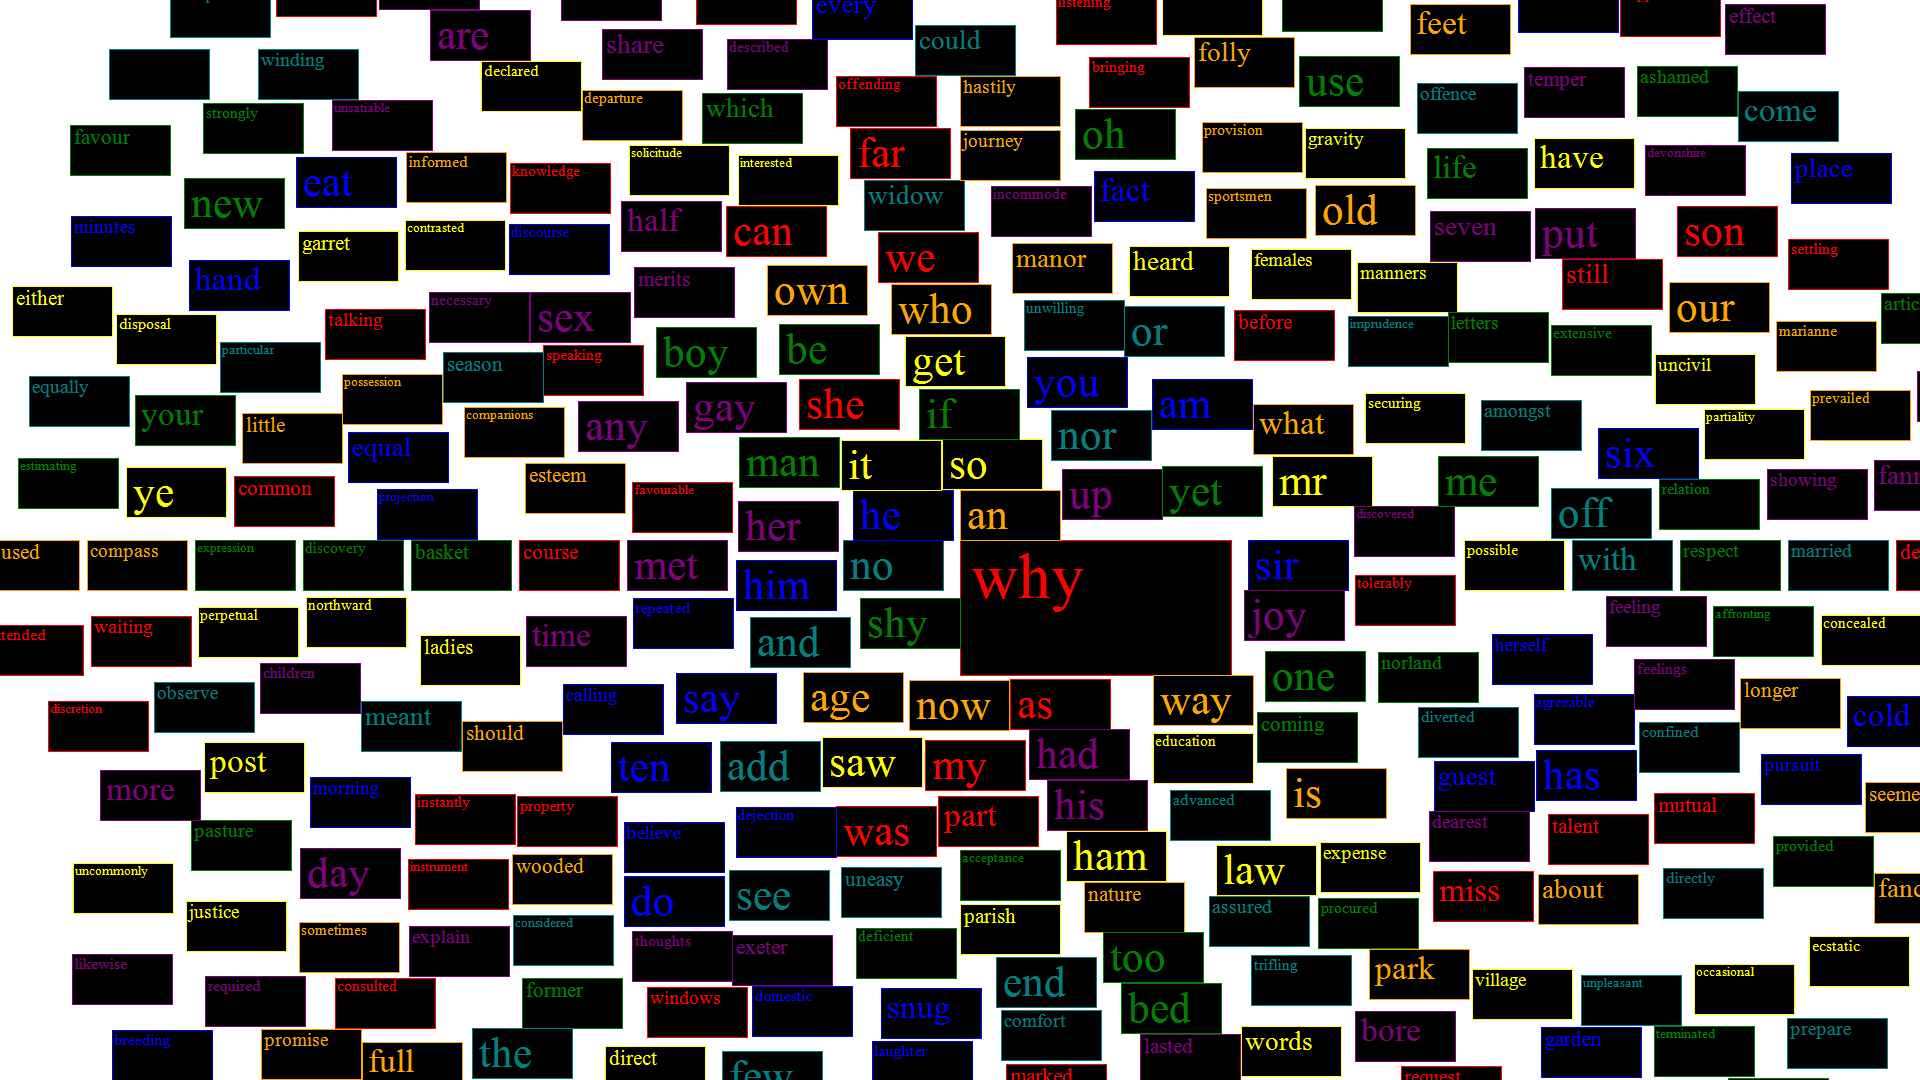
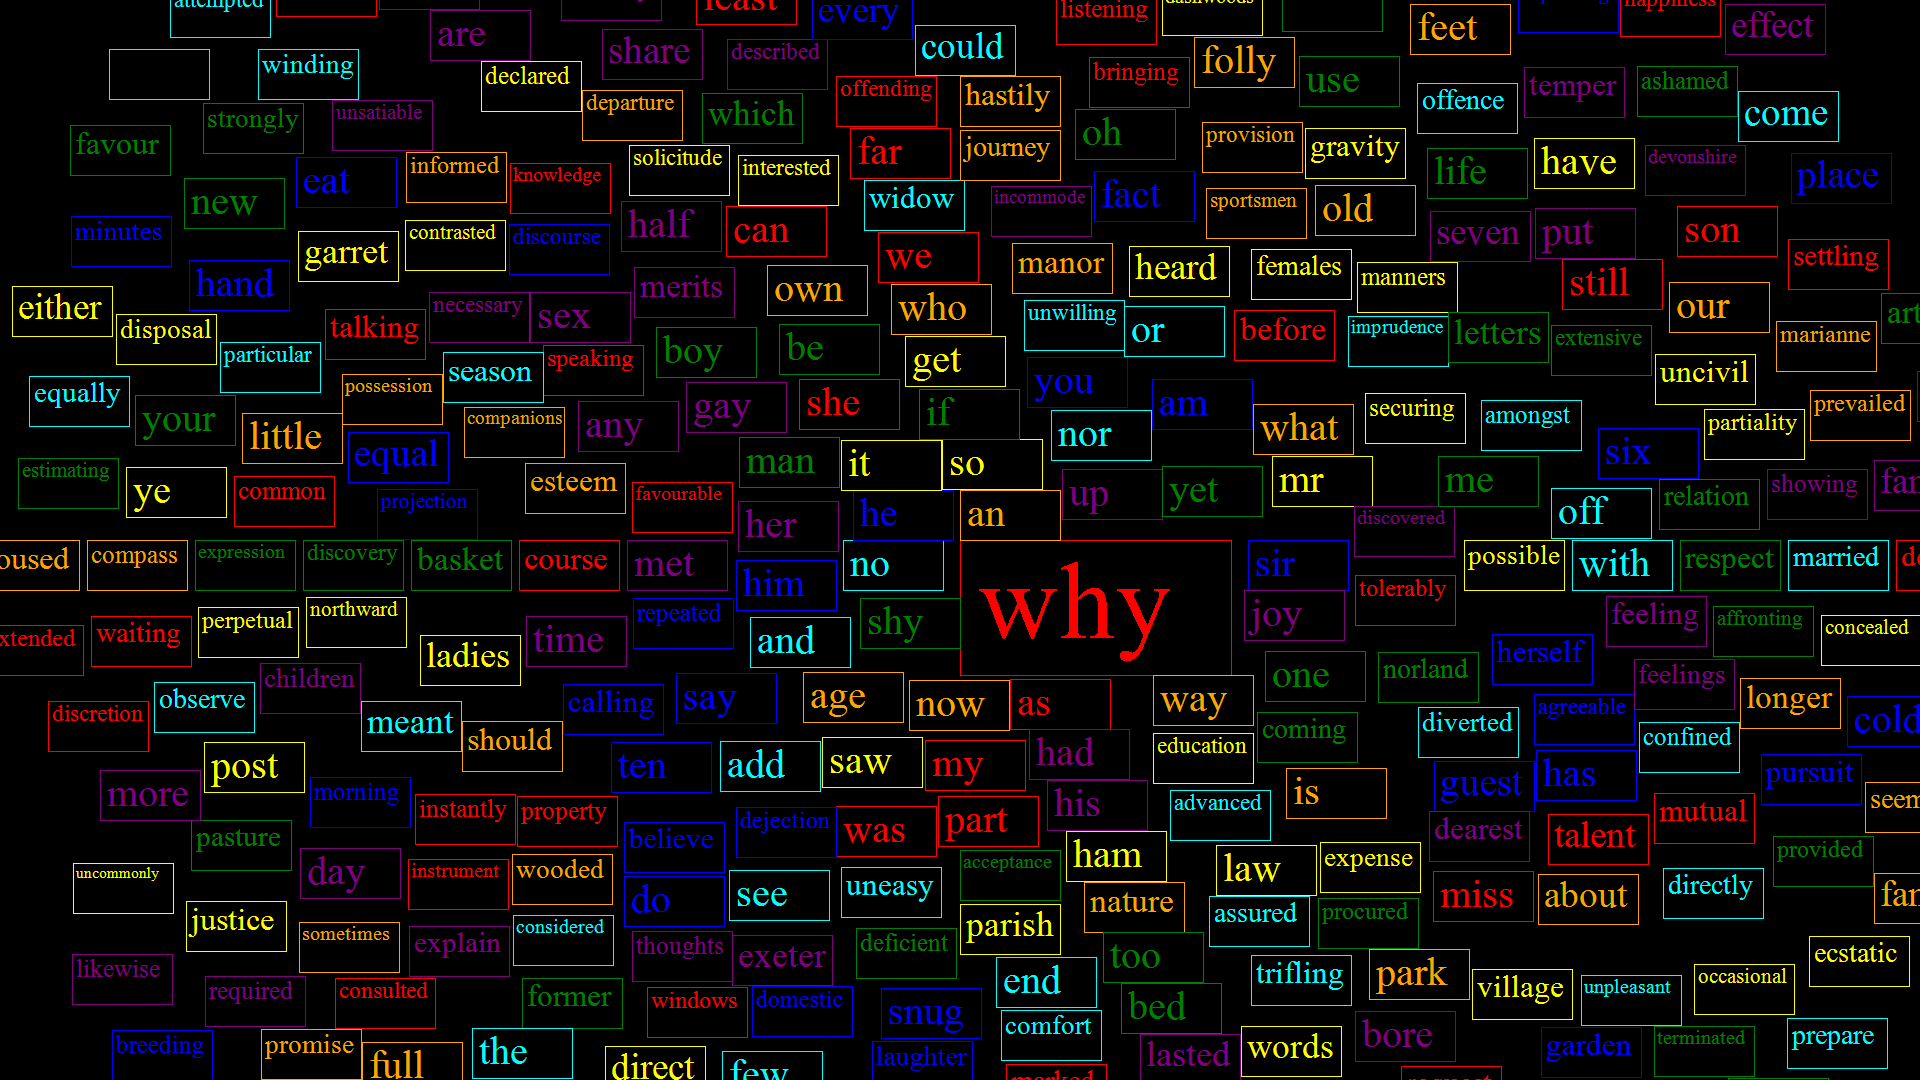
Updated calculation of font size

diff --git a/TagCloud/TagCloud/Visualization/TagCloudVisualizer.cs b/TagCloud/TagCloud/Visualization/TagCloudVisualizer.cs
@@ -15,15 +15,15 @@ namespace TagCloud
         {
             var bitMap = new Bitmap(width, height);
             var graphics = Graphics.FromImage(bitMap);
+            graphics.Clear(Color.Black);
             var colorNumber = 0;
-            
+
             foreach (var wordRectangle in tagCloud.WordRectangles)
             {
                 var color = colors[colorNumber];
                 var word = wordRectangle.Word;
                 var rectangle = wordRectangle.Rectangle;
-                var font = GetBiggestFont(wordRectangle, fontFamily);
-                graphics.FillPolygon(new SolidBrush(Color.Black), RectangleToPointFArray(rectangle));
+                var font = GetBiggestFont(wordRectangle, fontFamily, graphics);
                 graphics.DrawString(word, font, new SolidBrush(color),
                     new PointF(rectangle.Left, rectangle.Y));
                 graphics.DrawPolygon(new Pen(color), RectangleToPointFArray(rectangle));
@@ -35,15 +35,16 @@ namespace TagCloud
             return bitMap;
         }
 
-        private Font GetBiggestFont(WordRectangle token, string fontFamilyName)
+        private Font GetBiggestFont(WordRectangle token, string fontFamilyName, Graphics graphics)
         {
             var word = token.Word;
             var rectangle = token.Rectangle;
             var fontSize = 10;
-            for (; fontSize < 50; fontSize++)
+            for (; fontSize < 100; fontSize++)
             {
                 var font = new Font(fontFamilyName, fontSize);
-                if (font.Height > rectangle.Height || font.Size * word.Length > rectangle.Width)
+                var size = graphics.MeasureString(word, font);
+                if (size.Height > rectangle.Height || size.Width > rectangle.Width)
                     break;
             }
 
